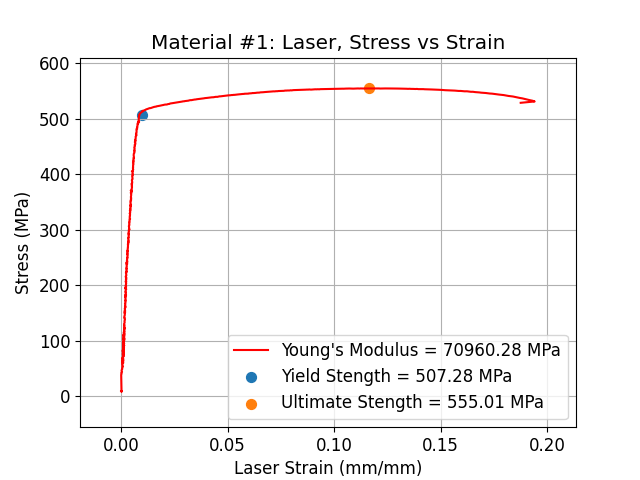
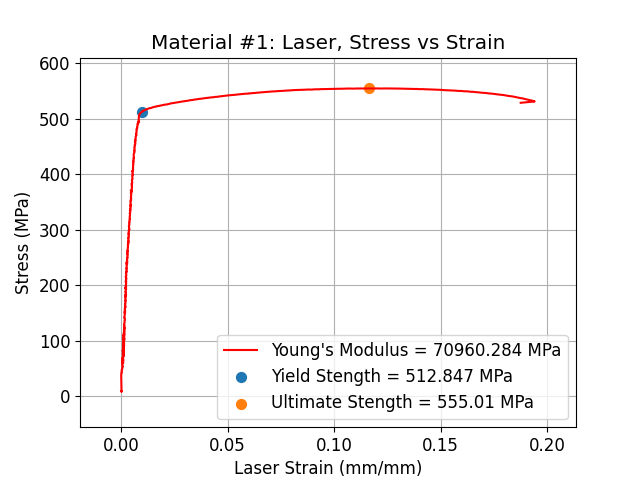
implemented unique yield stengths

diff --git a/src/graphing.py b/src/graphing.py
@@ -58,15 +58,24 @@ def StrainGraph(data: pd.DataFrame, test_num: np.int8, sensor: np.array, modulus
             
             if s == 'Laser':
                 mod = modulus[0]
-                plt.scatter(yield_strength[0], yield_strength[1], s=50)
+                plt.scatter(yield_strength[0][0], yield_strength[0][1], s=50)
                 plt.scatter(ultimate_strength[0], ultimate_strength[1], s=50)
+
+                plt.legend([f'Young\'s Modulus = {round(mod, 3)} MPa', f'Yield Stength = {round(yield_strength[0][1], 3)} MPa', f'Ultimate Stength = {round(ultimate_strength[1], 3)} MPa'])
+
             elif s == 'Strain Guage 2':
                 mod = modulus[1]
-                plt.scatter(yield_strength[0], yield_strength[1], s=50)
+                plt.scatter(yield_strength[1][0], yield_strength[1][1], s=50)
+
+                plt.legend([f'Young\'s Modulus = {round(mod, 3)} MPa', f'Yield Stength = {round(yield_strength[1][1], 3)} MPa', f'Ultimate Stength = {round(ultimate_strength[1], 3)} MPa'])
+
             else:
                 mod = modulus[2]
+
+                plt.legend([f'Young\'s Modulus = {round(mod, 3)} MPa'])
+                
             
-            plt.legend([f'Young\'s Modulus = {round(mod, 2)} MPa', f'Yield Stength = {round(yield_strength[1], 2)} MPa', f'Ultimate Stength = {round(ultimate_strength[1], 2)} MPa'])
+            
 
 
         params = {'mathtext.default': 'regular' }          
@@ -78,7 +87,6 @@ def StrainGraph(data: pd.DataFrame, test_num: np.int8, sensor: np.array, modulus
 
         # x = np.linspace(0, 1, 100)
         # y = x*mod - mod*0.002
-        # print(test_num)
         # plt.plot(x, y)
 
         plt.grid()

diff --git a/src/analysis.py b/src/analysis.py
@@ -110,20 +110,25 @@ def YieldProcess(data: pd.DataFrame, test_num: np.int8, modulus: np.array):
     stress_offset_guage = [x*mod - mod*0.002 for x in strain_guage]
     stress_offset_laser = [x*mod - mod*0.002 for x in strain_laser]
 
-    if test_num == 3:
-        plt.plot(strain_laser, stress_measured)
-        plt.plot(strain_laser, stress_offset_laser)
+    yield_strength_laser = [0,0]
+    yield_strength_guage = [0,0]
+    
+    # plt.plot(strain_laser, stress_measured)
+    # plt.plot(strain_laser, stress_offset_laser)
 
-        diff = abs(stress_measured - stress_offset_laser)
-        intersect_ind = list(diff).index(min(diff))
-        yield_strength = [strain_laser[intersect_ind], stress_measured[intersect_ind]]
-    else:
-        plt.plot(strain_guage, stress_measured)
-        plt.plot(strain_guage, stress_offset_guage)
+    diff = abs(stress_measured - stress_offset_laser)
+    intersect_ind = list(diff).index(min(diff))
+    yield_strength_laser = [strain_laser[intersect_ind], stress_measured[intersect_ind]]
+
+    if test_num != 3:
+        # plt.plot(strain_guage, stress_measured)
+        # plt.plot(strain_guage, stress_offset_guage)
 
         diff = abs(stress_measured - stress_offset_guage)
         intersect_ind = list(diff).index(min(diff))
-        yield_strength = [strain_guage[intersect_ind], stress_measured[intersect_ind]]
+        yield_strength_guage = [strain_guage[intersect_ind], stress_measured[intersect_ind]]
+    
+    yield_strength = [yield_strength_laser, yield_strength_guage]
     
     return yield_strength
 
